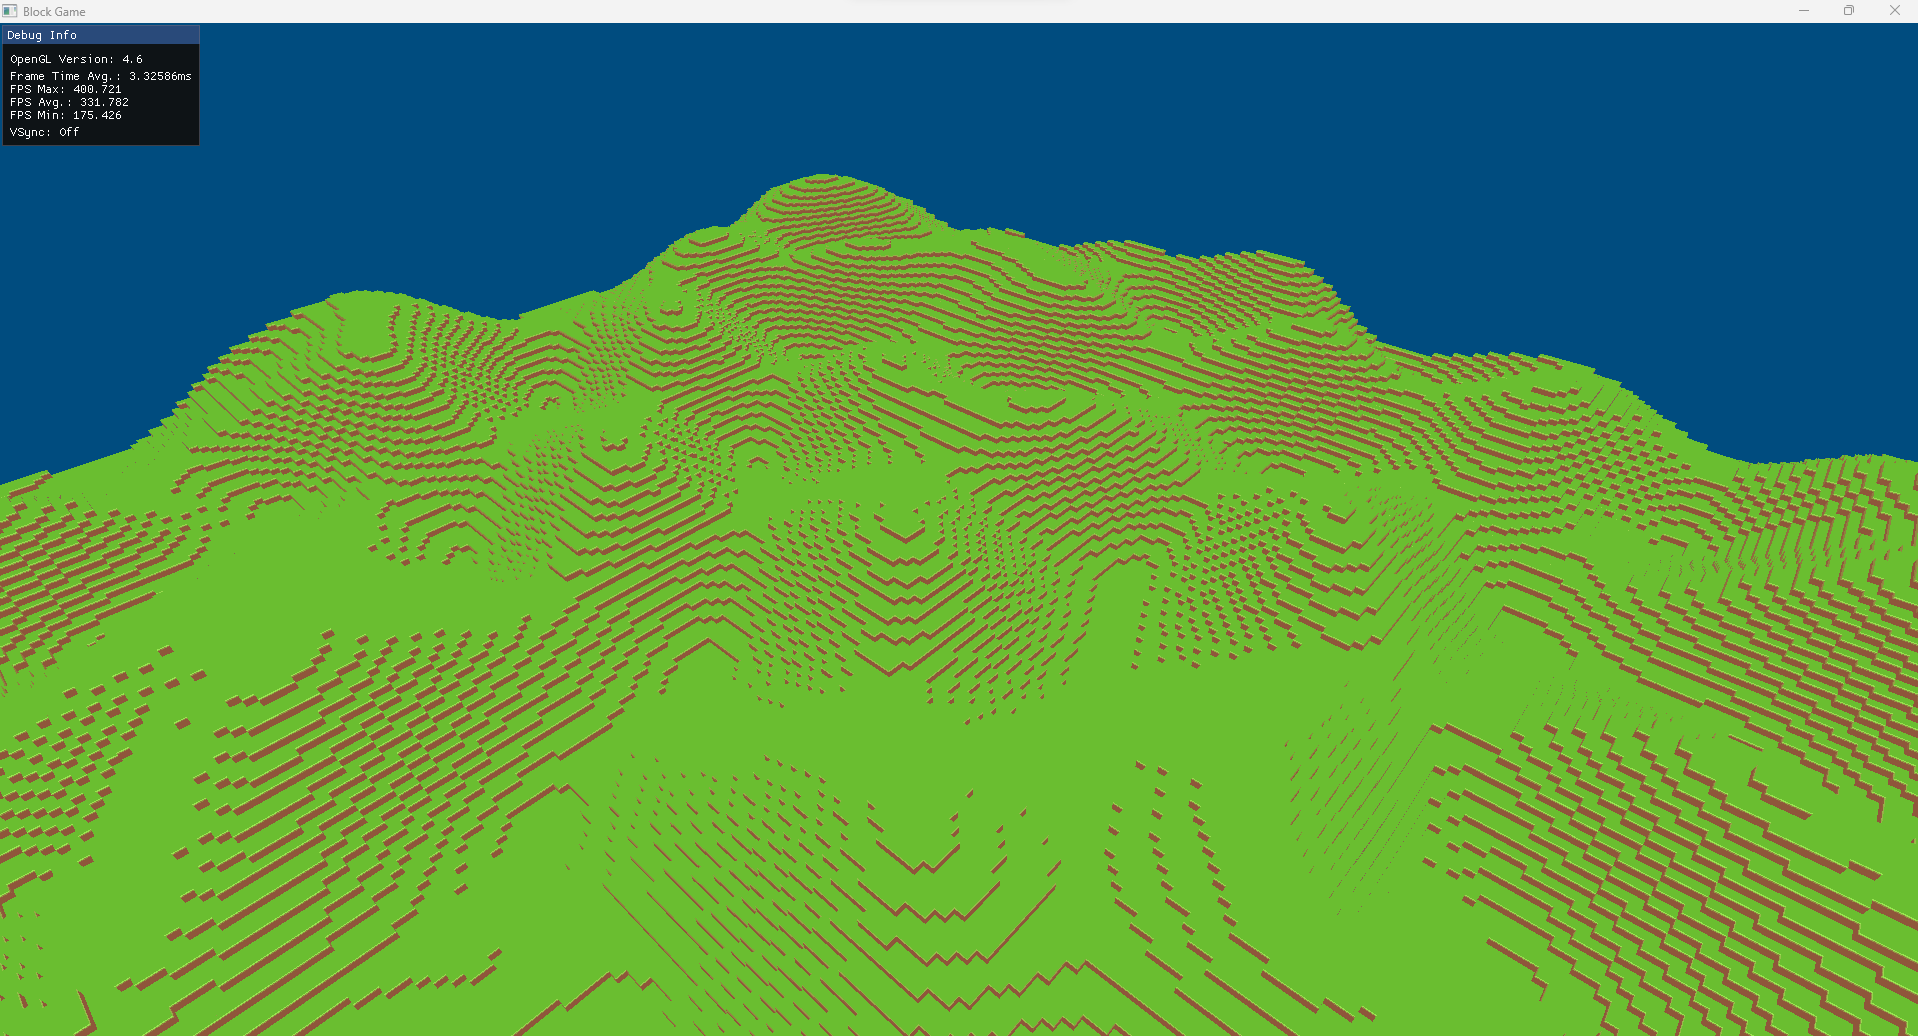
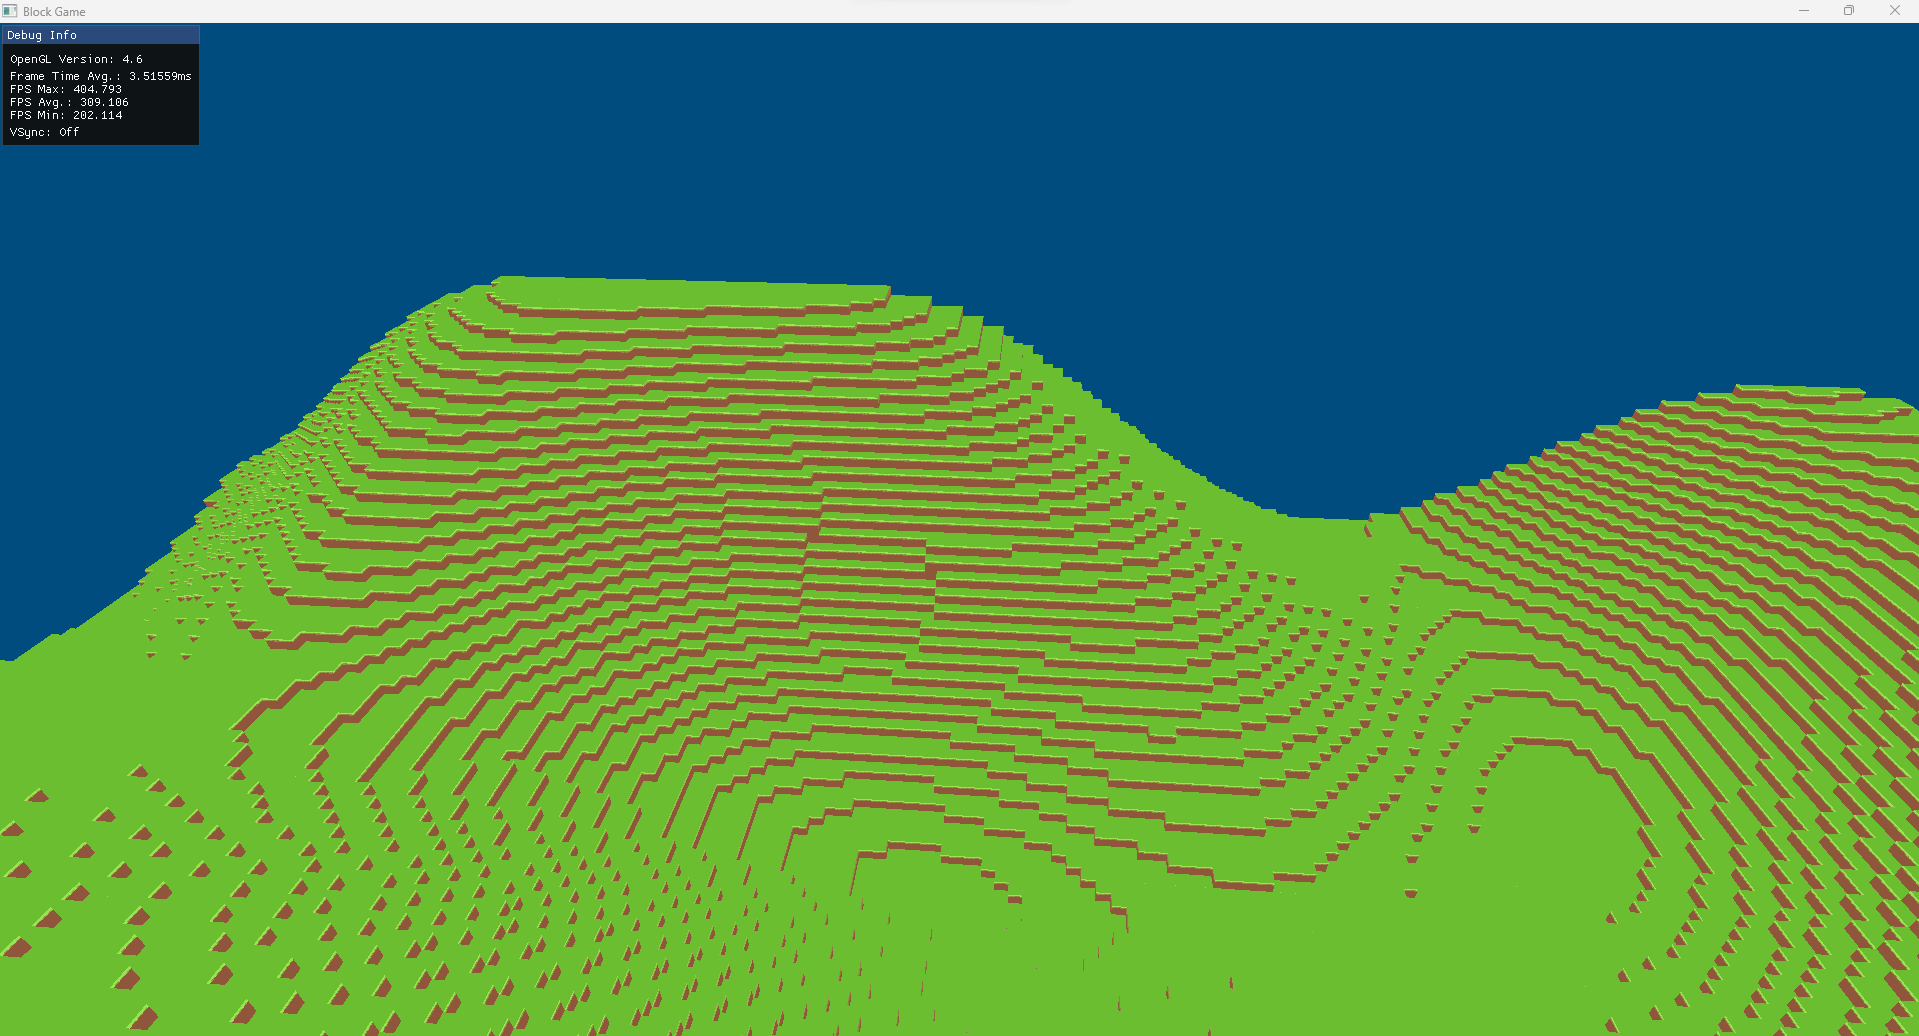
Noise works with multiple chunks in height

diff --git a/BlockGame/world.cpp b/BlockGame/world.cpp
@@ -3,6 +3,7 @@
 #include <future>
 
 #include "logging.h"
+#include <unordered_map>
 
 World::World(glm::vec3 currentPlayerPos, int renderDistance)
 {
@@ -10,7 +11,12 @@ World::World(glm::vec3 currentPlayerPos, int renderDistance)
 	seed_ = rand();
 	renderDistance_ = renderDistance;
 
-	simplexNoise_ = FastNoise::New<FastNoise::Simplex>();
+	auto fastNoiseSimplex = FastNoise::New<FastNoise::Simplex>();
+	fractalNoise_ = FastNoise::New<FastNoise::FractalFBm>();
+	fractalNoise_->SetSource(fastNoiseSimplex);
+	fractalNoise_->SetOctaveCount(2);
+	fractalNoise_->SetLacunarity(0);
+	fractalNoise_->SetGain(0.5f);
 
 	int startZ = World::FindClosestPosition(currentPlayerPos.z, 16) - (16 * glm::floor(renderDistance_-1));
 	int startX = World::FindClosestPosition(currentPlayerPos.x, 16) - (16 * glm::floor(renderDistance_-1));
@@ -20,7 +26,11 @@ World::World(glm::vec3 currentPlayerPos, int renderDistance)
 	{
 		for (int x = 0; x < renderDistance*2+1; x++)
 		{
-			chunks_.push_back(new Chunk(std::atomic(&simplexNoise_), glm::vec3(startX + (x * 16.0f), 0.0f, startZ + (z * 16.0f)), 16, seed_));
+			std::vector<float> chunkSectionNoise = GetNoiseForChunkSection(startX + x * 16.0f, startZ + z * 16.0f, 16);
+
+			for (int y = yMin; y <= yMax; y++) {
+				chunks_.push_back(new Chunk(chunkSectionNoise, yMin, yMax, glm::vec3(startX + (x * 16.0f), y * 16.0f, startZ + (z * 16.0f)), 16, seed_));
+			}
 		}
 	}
 
@@ -67,6 +77,7 @@ void World::Update(glm::vec3 currentPlayerPos)
 		}
 
 		std::vector<glm::vec3> positionsToLoad = std::vector<glm::vec3>();
+		std::vector<glm::vec3> chunkSectionPositions = std::vector<glm::vec3>();
 
 		int zIncrement = 16;
 		if (endZ < startZ)
@@ -84,27 +95,46 @@ void World::Update(glm::vec3 currentPlayerPos)
 		{
 			for (int x=startX; x <= endX; x += xIncrement)
 			{
-				bool isAlreadyLoaded = false;
+				bool shouldAddNoise = true;
 				for (glm::vec3 loadedChunkPos : loadedChunkPositions)
 				{
 					int loadedChunkZ = static_cast<int>(loadedChunkPos.z);
 					int loadedChunkX = static_cast<int>(loadedChunkPos.x);
-					
+
 					if (loadedChunkX == x && loadedChunkZ == z)
 					{
-						isAlreadyLoaded = true;
+						shouldAddNoise = false;
 					}
 				}
 
-				if (!isAlreadyLoaded)
-				{
-					positionsToLoad.push_back(glm::vec3(x, 0.0f, z));
+				for (int y = yMin; y <= yMax; y++) {
+					bool shouldAddPosition = true;
+					for (glm::vec3 loadedChunkPos : loadedChunkPositions)
+					{
+						int loadedChunkZ = static_cast<int>(loadedChunkPos.z);
+						int loadedChunkX = static_cast<int>(loadedChunkPos.x);
+						int loadedChunkY = static_cast<int>(loadedChunkPos.y);
+
+						if (loadedChunkX == x && loadedChunkZ == z && loadedChunkY == (y*16))
+						{
+							shouldAddPosition = false;
+						}
+					}
+
+					if (shouldAddPosition)
+					{
+						positionsToLoad.push_back(glm::vec3(x, y * 16, z));
+					}
+				}
+
+				if (shouldAddNoise) {
+					chunkSectionPositions.push_back(glm::vec3(x, 0, z));
 				}
 			}
 		}
 
 		// Load the new chunks asynchronously
-		loadingChunks_ = std::async(std::launch::async, &World::LoadNewChunksAsync, this, positionsToLoad, unloadedChunks);
+		loadingChunks_ = std::async(std::launch::async, &World::LoadNewChunksAsync, this, chunkSectionPositions, positionsToLoad, unloadedChunks);
 	}
 
 	lastKnownPlayerPos_ = currentPlayerPos;
@@ -130,18 +160,53 @@ int World::FindClosestPosition(int val, int multiple)
 	return option2;
 }
 
-bool World::LoadNewChunksAsync(std::vector<glm::vec3> positions, std::vector<Chunk*> chunkIndexes)
+bool World::LoadNewChunksAsync(std::vector<glm::vec3> chunkSectionPositions, std::vector<glm::vec3> positions, std::vector<Chunk*> chunkIndexes)
 {
 	loadingChunksMutex_.lock();
+
+	std::vector<ChunkNoiseSection> chunkNoiseSections = std::vector<ChunkNoiseSection>();
+	for (glm::vec3& chunkNoisePos : chunkSectionPositions)
+	{
+		chunkNoiseSections.push_back({ chunkNoisePos, GetNoiseForChunkSection(chunkNoisePos.x, chunkNoisePos.z, 16) });
+	}
+
 	for (int i = 0; i < chunkIndexes.size(); i++)
 	{
 		if (positions.size() > 0) {
 			glm::vec3 newPosition = positions.at(0);
 			positions.erase(positions.begin());
 
-			chunkIndexes[i]->Recreate(&simplexNoise_, newPosition, seed_, false);
+			int chunkNoiseSectionInd = 0;
+
+			for (int i=0; i < chunkNoiseSections.size(); i++)
+			{
+				ChunkNoiseSection& chunkNoiseSection = chunkNoiseSections.at(i);
+
+				if (chunkNoiseSection.position.x == newPosition.x && chunkNoiseSection.position.z == newPosition.z)
+				{
+					chunkNoiseSectionInd = i;
+				}
+			}
+
+			chunkIndexes[i]->Recreate(chunkNoiseSections.at(chunkNoiseSectionInd).noise, yMin, yMax, newPosition, seed_, false);
 		}
 	}
 	loadingChunksMutex_.unlock();
 	return true;
+}
+
+std::vector<float> World::GetNoiseForChunkSection(int x, int z, int size)
+{
+	auto noiseOutput = std::vector<float>(size * size);
+	fractalNoise_->GenUniformGrid2D(
+		noiseOutput.data(),
+		x,
+		z,
+		size,
+		size,
+		0.01f,
+		seed_
+	);
+
+	return noiseOutput;
 }

diff --git a/BlockGame/chunk.cpp b/BlockGame/chunk.cpp
@@ -6,7 +6,7 @@
 #include "meshComponent.h"
 #include "transformComponent.h"
 
-Chunk::Chunk(std::atomic<FastNoise::SmartNode<FastNoise::Simplex>*> noiseGenerator, glm::vec3 startingPosition, int size, int seed)
+Chunk::Chunk(std::vector<float> chunkSectionNoise, int minY, int maxY, glm::vec3 startingPosition, int size, int seed)
 	: Entity()
 {
 	size_.store(size);
@@ -16,7 +16,7 @@ Chunk::Chunk(std::atomic<FastNoise::SmartNode<FastNoise::Simplex>*> noiseGenerat
 
 	AddComponent("transform", new TransformComponent(this, startingPosition, glm::vec3(0.0f, 0.0f, 0.0f), glm::vec3(1.0f, 1.0f, 1.0f)));
 	transformComponent = static_cast<TransformComponent*>(GetComponentByName("transform"));
-	UseNoise(noiseGenerator.load());
+	UseNoise(chunkSectionNoise, minY, maxY);
 
 	TextureData textureData = Texture::LoadTextureDataFromFile("./Assets/textureAtlas.png");
 	texture_ = new Texture2D(textureData, GL_TEXTURE_2D, GL_NEAREST_MIPMAP_LINEAR, GL_NEAREST);
@@ -335,7 +335,7 @@ void Chunk::Draw()
 	}
 }
 
-void Chunk::UseNoise(std::atomic<FastNoise::SmartNode<FastNoise::Simplex>*> noiseGenerator)
+void Chunk::UseNoise(std::vector<float> chunkSectionNoise, int minY, int maxY)
 {
 	std::vector<std::vector<std::vector<uint8_t>>> blocks = std::vector<std::vector<std::vector<uint8_t>>>();
 
@@ -347,19 +347,6 @@ void Chunk::UseNoise(std::atomic<FastNoise::SmartNode<FastNoise::Simplex>*> nois
 
 	glm::vec3 position = transformComponent->GetTranslation();
 
-	// Fill the blocks_ container using noise
-	std::vector<float> simplexNoiseOutput(size_.load() * size_.load());
-	auto noise = noiseGenerator.load();
-	noise->get()->GenUniformGrid2D(
-		simplexNoiseOutput.data(),
-		(int)glm::floor(position.x),
-		(int)glm::floor(position.z),
-		size_.load(),
-		size_.load(),
-		0.02f,
-		seed_.load()
-	);
-
 	int currentBlockIndex = 0;
 	int currentNoiseIndex = 0;
 	for (int z = 0; z < size_.load(); z++)
@@ -370,23 +357,25 @@ void Chunk::UseNoise(std::atomic<FastNoise::SmartNode<FastNoise::Simplex>*> nois
 		{
 			std::vector<uint8_t> xRow = std::vector<uint8_t>();
 
-			float currentNoiseVal = simplexNoiseOutput[currentNoiseIndex];
-
-			int yHeight = 8 + (currentNoiseVal * size_.load() /2);
+			float currentNoiseVal = chunkSectionNoise[currentNoiseIndex];
+			float ySize = glm::abs(maxY - minY) * size_;
+			float ySurface = (ySize / 2) + (currentNoiseVal * ySize / 2);
 
 			for (int y = 0; y < size_.load(); y++)
 			{
 				uint8_t currentBlock = BLOCK_TYPE_AIR;
 
-				if (y < yHeight && y >= (yHeight-3))
+				float currentY = position.y + (float)y;
+
+				if ((int)currentY < (int)ySurface)
 				{
 					currentBlock = BLOCK_TYPE_DIRT;
 				}
-				else if (y < yHeight-3)
+				else if ((int)currentY > (int)ySurface)
 				{
-					currentBlock = BLOCK_TYPE_STONE;
+					currentBlock = BLOCK_TYPE_AIR;
 				}
-				else if (y == yHeight)
+				else
 				{
 					currentBlock = BLOCK_TYPE_GRASS;
 				}
@@ -394,10 +383,8 @@ void Chunk::UseNoise(std::atomic<FastNoise::SmartNode<FastNoise::Simplex>*> nois
 				xRow.push_back(currentBlock);
 				currentBlockIndex++;
 			}
-
-			zRow.push_back(xRow);
-
 			currentNoiseIndex++;
+			zRow.push_back(xRow);
 		}
 
 		blocks.push_back(zRow);
@@ -412,12 +399,12 @@ void Chunk::Unload()
 	isUnloaded.store(true);
 }
 
-void Chunk::Recreate(std::atomic<FastNoise::SmartNode<FastNoise::Simplex>*> noiseGenerator, glm::vec3 newStartingPosition, int seed, bool isOnMainThread)
+void Chunk::Recreate(std::vector<float> chunkSectionNoise, int minY, int maxY, glm::vec3 newStartingPosition, int seed, bool isOnMainThread)
 {
 	seed_.store(seed);
 	blocks_.clear();
 	transformComponent->SetTranslation(newStartingPosition);
-	UseNoise(noiseGenerator.load());
+	UseNoise(chunkSectionNoise, minY, maxY);
 	GenerateMesh(isOnMainThread);
 	isUnloaded.store(false);
 }

diff --git a/BlockGame/game.cpp b/BlockGame/game.cpp
@@ -82,8 +82,6 @@ void Game::Run()
 
 	stbi_set_flip_vertically_on_load(false);
 
-	auto fastNoiseSimplex = FastNoise::New<FastNoise::Simplex>();
-
 	srand(time(NULL));
 	int seed = rand();
 
@@ -93,7 +91,7 @@ void Game::Run()
 	glfwGetWindowSize(window, &width, &height);
 	perspective = glm::perspective(glm::radians(60.0f), (GLfloat)((float)width / (float)height), 0.1f, 400.0f);
 
-	World world = World(glm::vec3(0.0f, 0.0f, 0.0f), 10);
+	World world = World(glm::vec3(0.0f, 0.0f, 0.0f), 5);
 
 	glm::mat4 oldView = glm::mat4(1.0f);
 	for (Chunk* chunk : world.GetWorld())
@@ -106,19 +104,6 @@ void Game::Run()
 
 	FreeFormController freeFormController = FreeFormController(window, glm::vec3(0.0f, 16.0f, 0.0f), glm::vec3(0.0f, 0.0f, 0.0f));
 	freeFormController.Start();
-
-	bool hasRegenerated = false;
-
-	auto regenerate = [](FastNoise::SmartNode<FastNoise::Simplex>& noise, World& world, int seed)
-	{
-		for (Chunk* chunk : world.GetWorld())
-		{
-			TransformComponent* transformComponent = static_cast<TransformComponent*>(chunk->GetComponentByName("transform"));
-			if (transformComponent) {
-				chunk->Recreate(&noise, transformComponent->GetTranslation(), seed, false);
-			}
-		}
-	};
 
 	TransformComponent* freeFormTransform = static_cast<TransformComponent*>(freeFormController.GetComponentByName("transform"));
 
@@ -153,30 +138,6 @@ void Game::Run()
 
 		if (glfwGetKey(window, GLFW_KEY_ESCAPE) == GLFW_PRESS) {
 			glfwSetWindowShouldClose(window, GLFW_TRUE);
-		}
-
-		/*
-		 * Regenerates the world using another randomly chosen seed.
-		 */
-		if (glfwGetKey(window, GLFW_KEY_G) == GLFW_PRESS && !hasRegenerated)
-		{
-			srand(time(NULL));
-			seed = rand();
-
-			for (Chunk* chunk : world.GetWorld())
-			{
-				chunk->Unload();
-			}
-
-			regenerateThread = std::thread(regenerate, std::ref(fastNoiseSimplex), std::ref(world), seed);
-			regenerateThread.detach();
-
-			hasRegenerated = true;
-		}
-
-		if (glfwGetKey(window, GLFW_KEY_G) == GLFW_RELEASE && hasRegenerated)
-		{
-			hasRegenerated = false;
 		}
 
 		glClearColor(0.0f, 0.3f, 0.5f, 1.0f);

diff --git a/BlockGame/world.h b/BlockGame/world.h
@@ -5,24 +5,35 @@
 #include "chunk.h"
 #include "entity.h"
 
+struct ChunkNoiseSection
+{
+	glm::vec3 position; // Y should always be zero here
+	std::vector<float> noise;
+};
+
 class World
 {
 	glm::vec3 lastKnownPlayerPos_;
 	std::vector<Chunk*> chunks_;
-	FastNoise::SmartNode<FastNoise::Simplex> simplexNoise_;
+
+	FastNoise::SmartNode<FastNoise::FractalFBm> fractalNoise_;
 	int seed_;
 	int renderDistance_;
 	std::future<bool> loadingChunks_;
 	std::mutex loadingChunksMutex_;
+	int yMin = 0;
+	int yMax = 3;
 public:
 	World(glm::vec3 currentPlayerPos, int renderDistance);
 
 	void Update(glm::vec3 currentPlayerPos);
 	std::vector<Chunk*> GetWorld();
 
-	bool LoadNewChunksAsync(std::vector<glm::vec3> positions, std::vector<Chunk*> chunkIndexes);
+	bool LoadNewChunksAsync(std::vector<glm::vec3> chunkSectionPositions, std::vector<glm::vec3> positions, std::vector<Chunk*> chunkIndexes);
 
 	// Finds the closest position that's a multiple of the passed
 	// parameter, i.e. closest x pos for a multiple of 16
 	static int FindClosestPosition(int val, int multiple);
+
+	std::vector<float> GetNoiseForChunkSection(int x, int z, int size);
 };

diff --git a/BlockGame/chunk.h b/BlockGame/chunk.h
@@ -32,17 +32,17 @@ class Chunk : public Entity
 
 	std::atomic<bool> isUnloaded{false};
 protected:
-	void UseNoise(std::atomic<FastNoise::SmartNode<FastNoise::Simplex>*> noiseGenerator);
+	void UseNoise(std::vector<float> chunkSectionNoise, int minY, int maxY);
 	void GenerateMesh(bool isOnMainThread = true);
 
 	bool IsInChunk(int x, int y, int z);
 public:
-	Chunk(std::atomic<FastNoise::SmartNode<FastNoise::Simplex>*> noiseGenerator, glm::vec3 startingPosition, int size, int seed);
+	Chunk(std::vector<float> chunkSectionNoise, int minY, int maxY, glm::vec3 startingPosition, int size, int seed);
 
 	void Draw();
 
 	void Unload();
-	void Recreate(std::atomic<FastNoise::SmartNode<FastNoise::Simplex>*> noiseGenerator, glm::vec3 newStartingPosition, int seed, bool isOnMainThread = true);
+	void Recreate(std::vector<float> chunkSectionNoise, int minY, int maxY, glm::vec3 newStartingPosition, int seed, bool isOnMainThread = true);
 
 	void Update() override;
 };

diff --git a/README.md b/README.md
@@ -11,7 +11,7 @@ This is my attempt at making a Minecraft clone using OpenGL and C++. My previous
 - ImGui is integrated
 
 # Planned Features
-- More varied noise **(High priority)**
+- **[In Progress]** More varied noise **(High priority)**
   - Hills larger than 1 chunk in height
   - Mix flatland and hills
 - Biomes **(High priority)**
